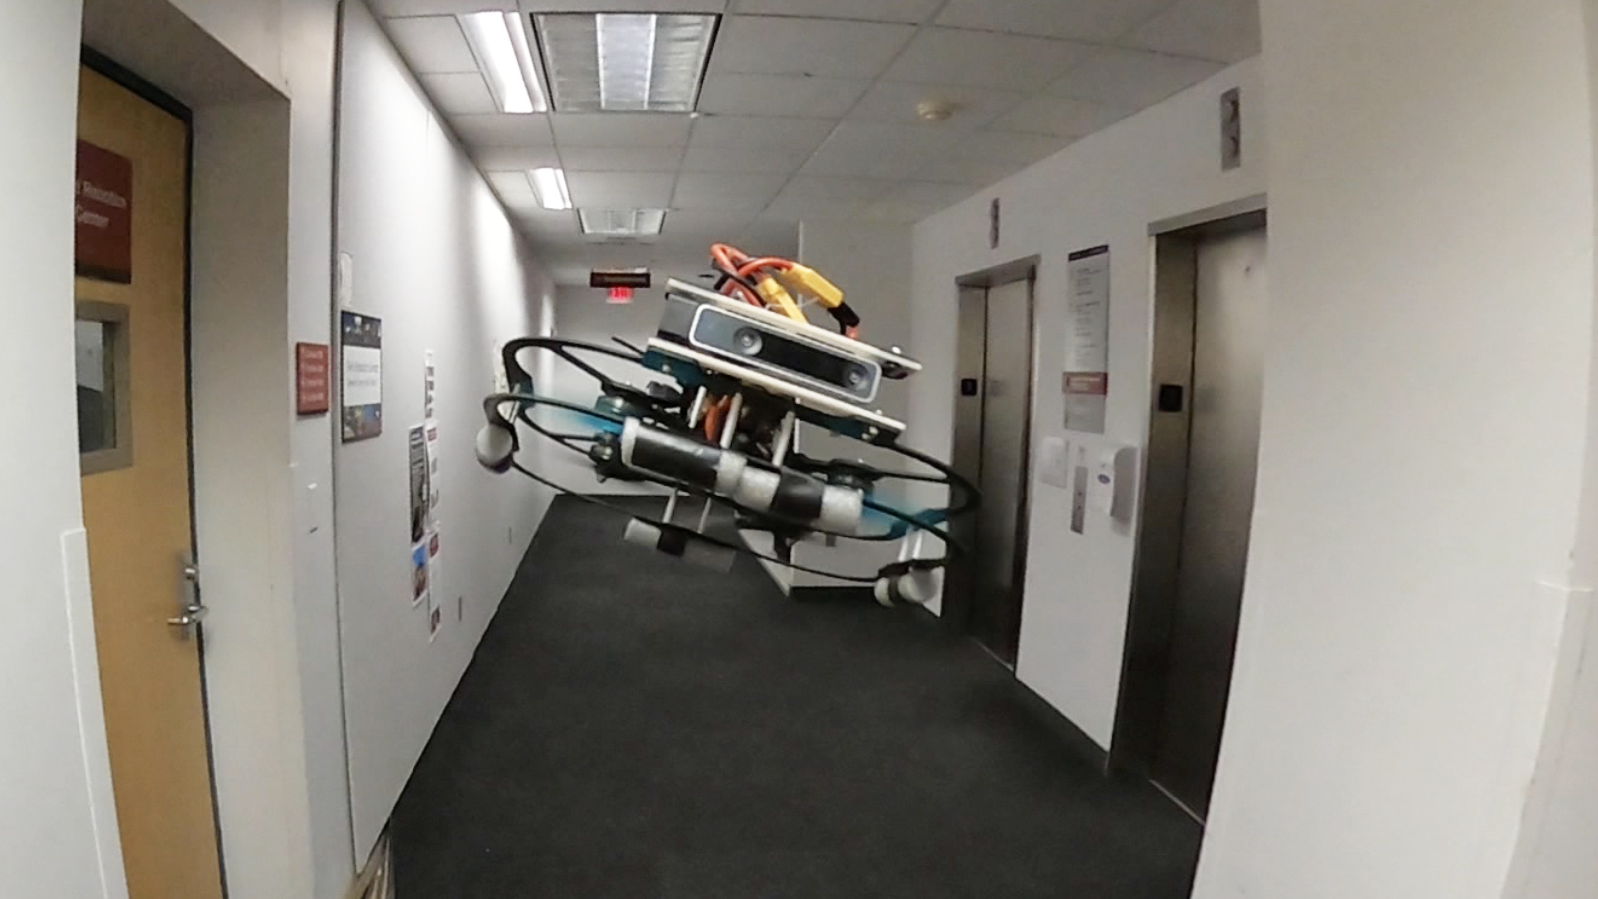
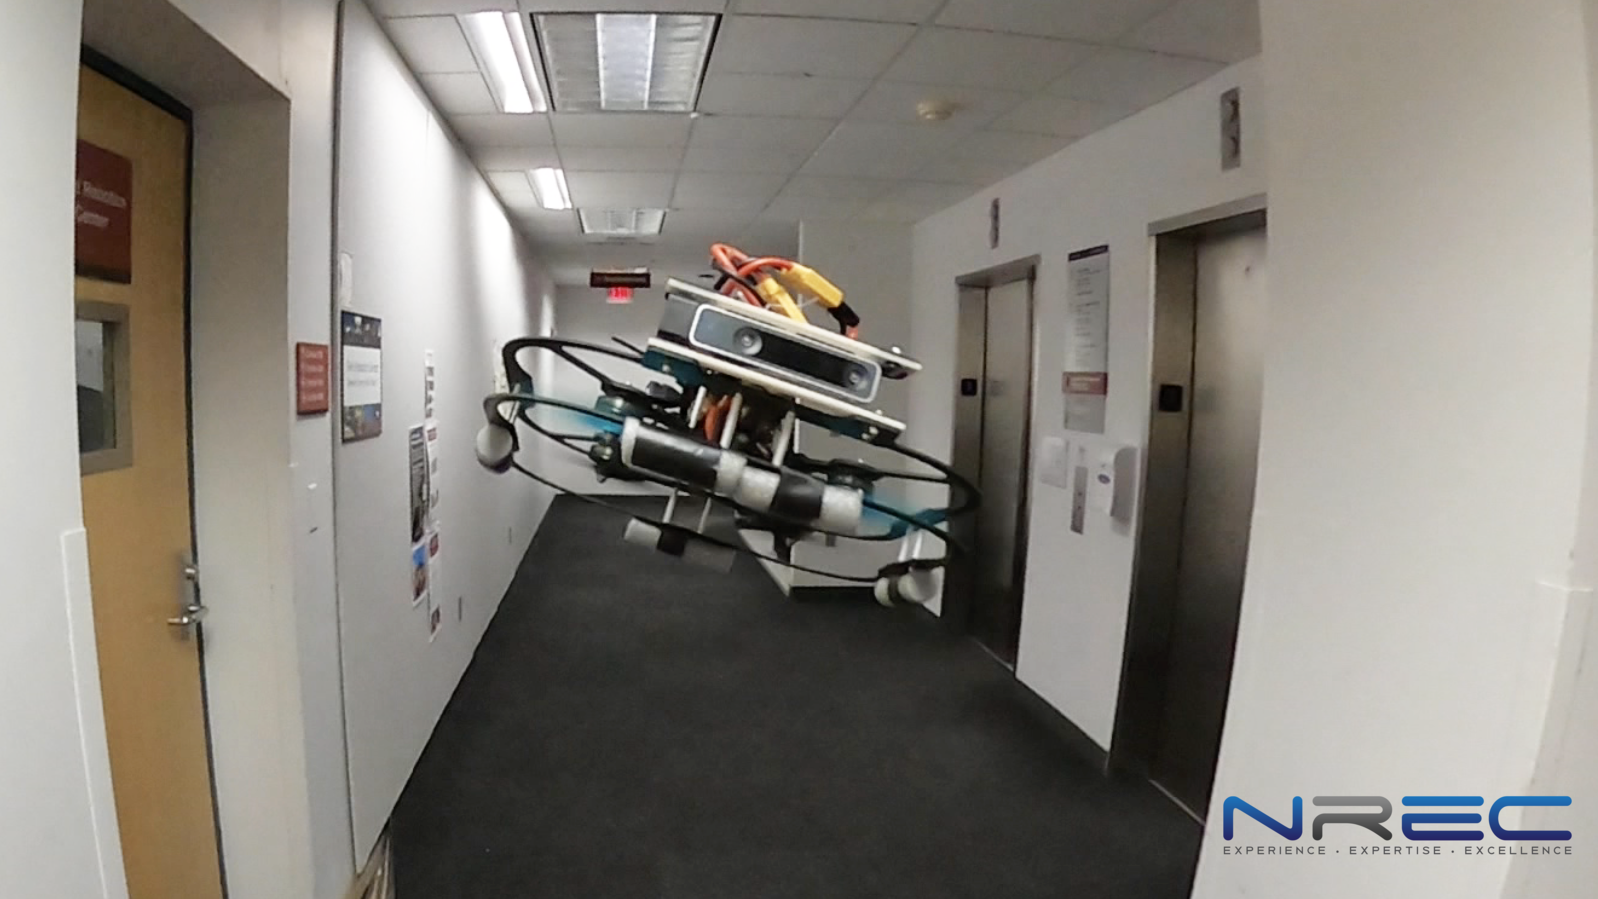
use-case-watermark-update
use-case-watermark-update

Changed region(s): [[0.7666, 0.8721, 0.9812, 0.9655]]

diff --git a/common/source/docs/common-use-cases-and-applications.rst b/common/source/docs/common-use-cases-and-applications.rst
@@ -27,7 +27,7 @@ Use Cases
 .. image:: ../../../images/case-cmu-nrec-drone.png
 
 
-..  youtube:: 0QlaItqLTPc
+..  youtube:: k6jKkpmj4-k
     :width: 640
     :height: 480
 
